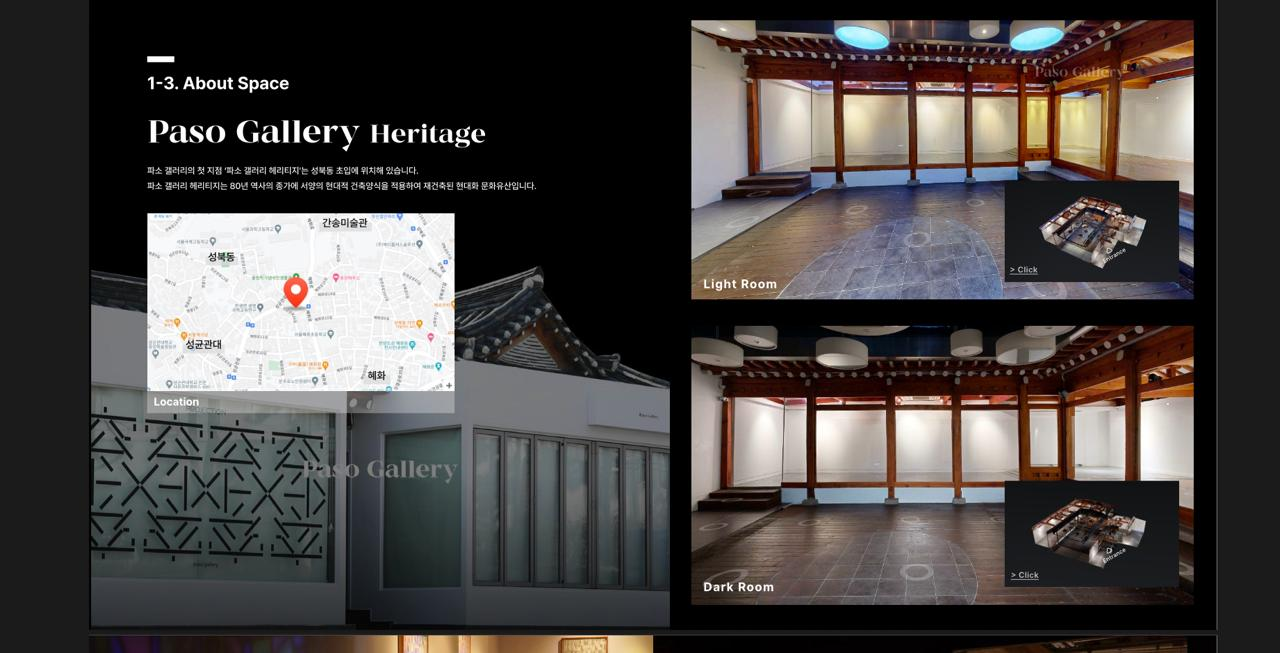
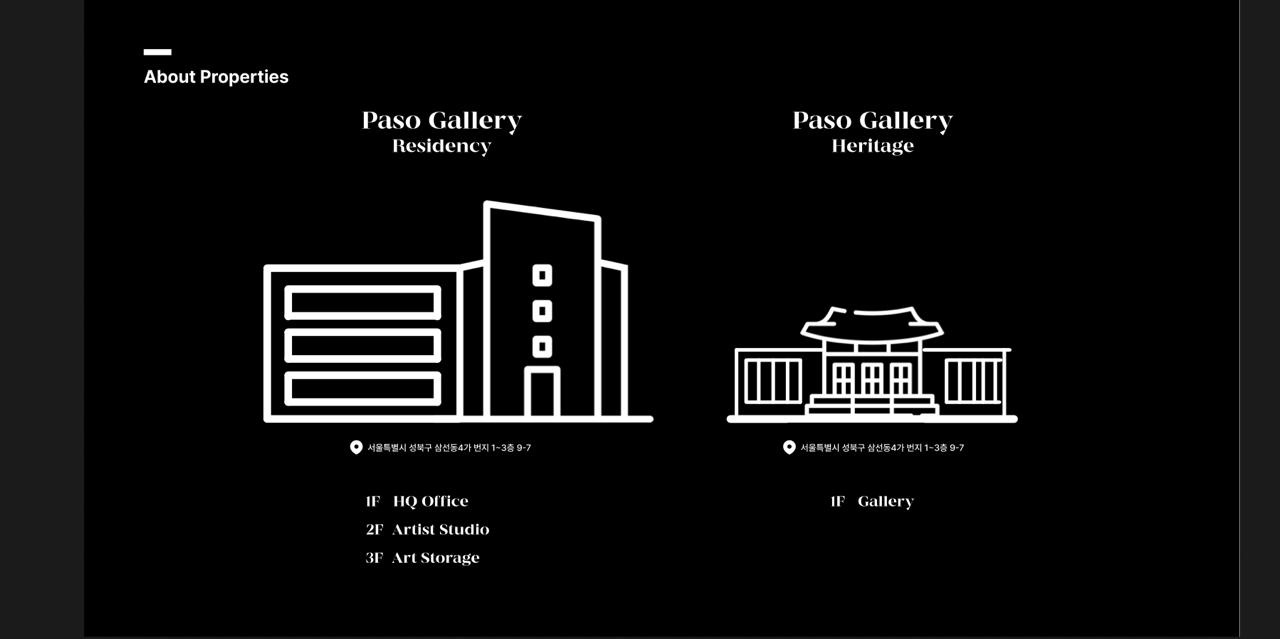
fix: 카드 이미지를 모두 로컬 파일로 교체
- Paso Private Sales: heritage-exterior.jpg (야간 외관)
- 프리오프닝 상설전: reborn group-portrait.jpg (Google Drive 깨짐 수정)
- 모든 외부 이미지를 public/brands/에 로컬 저장

https://claude.ai/code/session_011keePyh1akWT4tqMibp3b3

diff --git a/src/components/DynamicSections.tsx b/src/components/DynamicSections.tsx
@@ -136,7 +136,7 @@ function CinematicBlock({ image, title, subtitle }: { image: string; title: stri
 function TripleFeature() {
   const cards = [
     { image: "/brands/paso-gallery-heritage.jpg", title: "Paso Private Sales", desc: "Paso Gallery의 프라이빗 세일", tall: false, href: "/brands/paso-gallery" },
-    { image: "https://drive.google.com/thumbnail?id=1paMxCxAhSsNRMRFoCeZl8APlMijfVdGw&sz=w1200", title: "프리오프닝 상설전", desc: "PASO Art Center의 첫 전시", tall: true, href: "https://www.joongang.co.kr/article/25312608" },
+    { image: "/brands/paso-gallery-reborn.jpg", title: "프리오프닝 상설전", desc: "PASO Art Center의 첫 전시", tall: true, href: "https://www.joongang.co.kr/article/25312608" },
     { image: "https://images.unsplash.com/photo-1540575467063-178a50c2df87?w=600&q=80", title: "마곡 아트 살롱", desc: "월간 커뮤니티 아트 토크", tall: false, href: "#" },
   ];
   const ref = useRef(null);

diff --git a/src/lib/data.ts b/src/lib/data.ts
@@ -92,7 +92,7 @@ export const feedCards: CardItem[] = [
       "PASO Art Center의 첫 전시. 동시대 미술의 새로운 시선을 마곡에서 만나보세요.",
     date: "Now Showing",
     tags: ["Exhibition"],
-    image: "https://drive.google.com/thumbnail?id=1paMxCxAhSsNRMRFoCeZl8APlMijfVdGw&sz=w1200",
+    image: "/brands/paso-gallery-reborn.jpg",
     href: "https://www.joongang.co.kr/article/25312608",
     featured: true,
   },

diff --git a/src/components/Feed.tsx b/src/components/Feed.tsx
@@ -125,7 +125,7 @@ function TripleFeature() {
       href: "/brands/paso-gallery",
     },
     {
-      image: "https://drive.google.com/thumbnail?id=1paMxCxAhSsNRMRFoCeZl8APlMijfVdGw&sz=w1200",
+      image: "/brands/paso-gallery-reborn.jpg",
       title: "프리오프닝 상설전",
       desc: "PASO Art Center의 첫 전시",
       tall: true,
